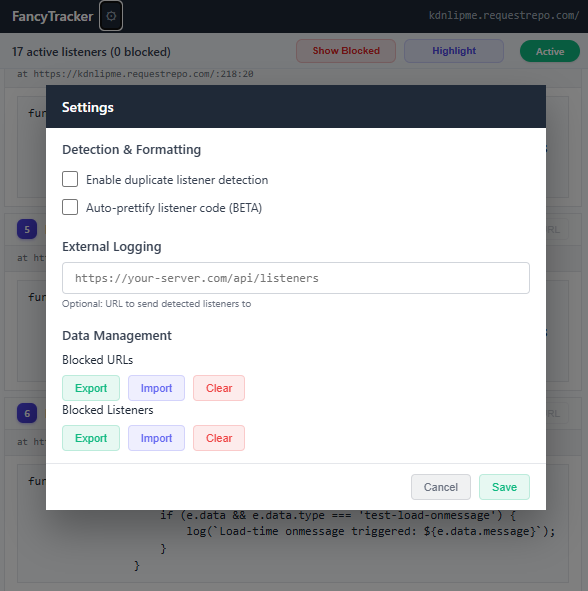
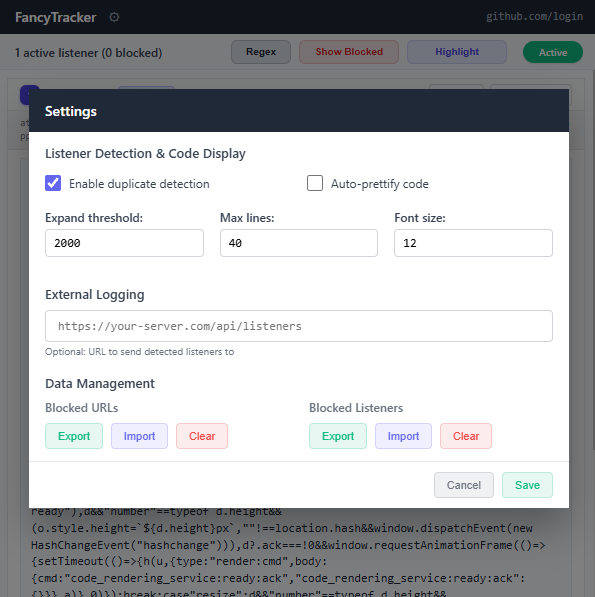
fixes

diff --git a/README.md b/README.md
@@ -42,11 +42,11 @@ A **LOT** of **vibing** has been going on in here, that's for sure...
 </tr>
 </table>
 
-## How It Works
+## Stuff
 
 **Listener Detection** - Monitors all `postMessage` event listeners across frames and origins, showing their source code and stack traces.
 
-**Deduplication** - Automatically filters out duplicate listeners (OFF by default). When enabled, identical listeners from the **(explicitly) same source** are shown only once.
+**Deduplication** - Automatically filters out duplicate listeners (**ON** by default - u prob want this at all times). When enabled, identical listeners from the **(explicitly) same source** are shown only once.
 
 **Code Prettify** - Formats minified JavaScript code for better readability. Handles large code blocks efficiently with caching.
 
@@ -58,6 +58,9 @@ A **LOT** of **vibing** has been going on in here, that's for sure...
 
 **External Logging** - Optionally send all detected listeners to your own server endpoint for centralized monitoring.
 
+**Regex Filtering** - Added support to filter listeners via regex as well
+
+**Settings** - Added support for manually adjusting fopnt size of code blocks as well as max lines / code length until expansion trigger
 
 ## New Features
 ### 🆕 Added optimization
